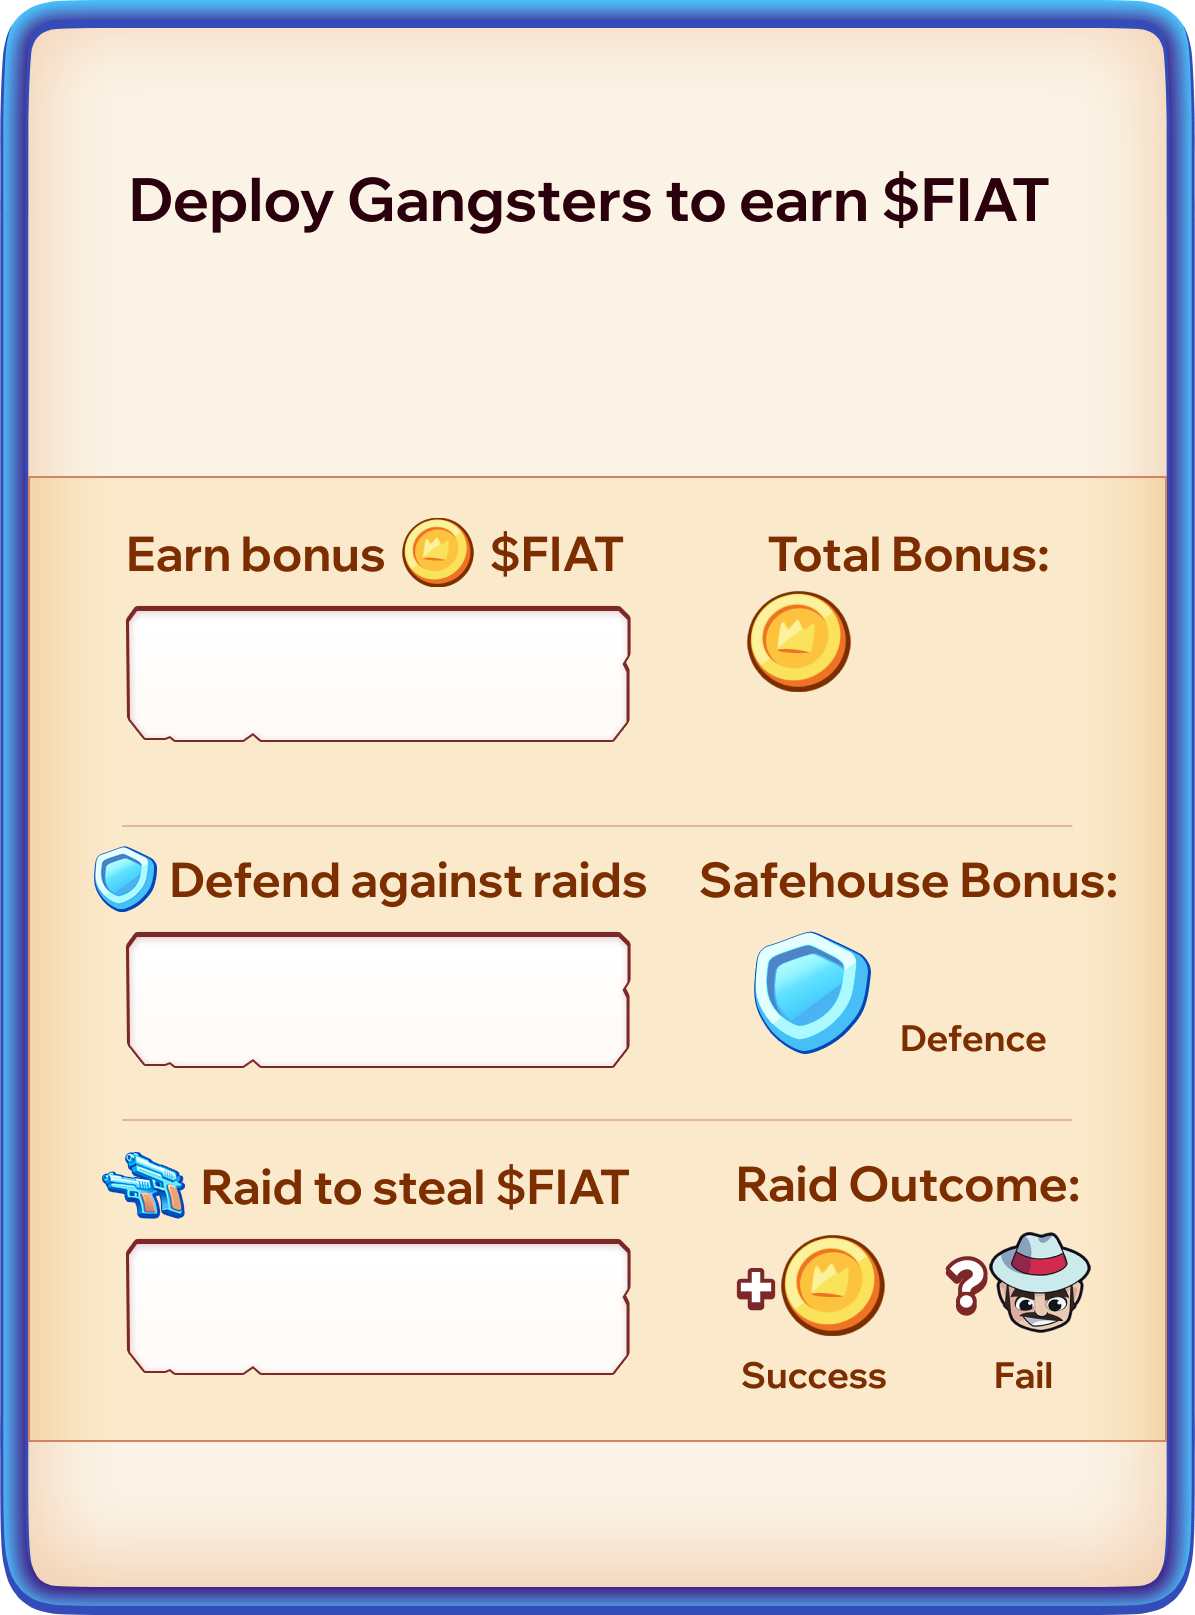
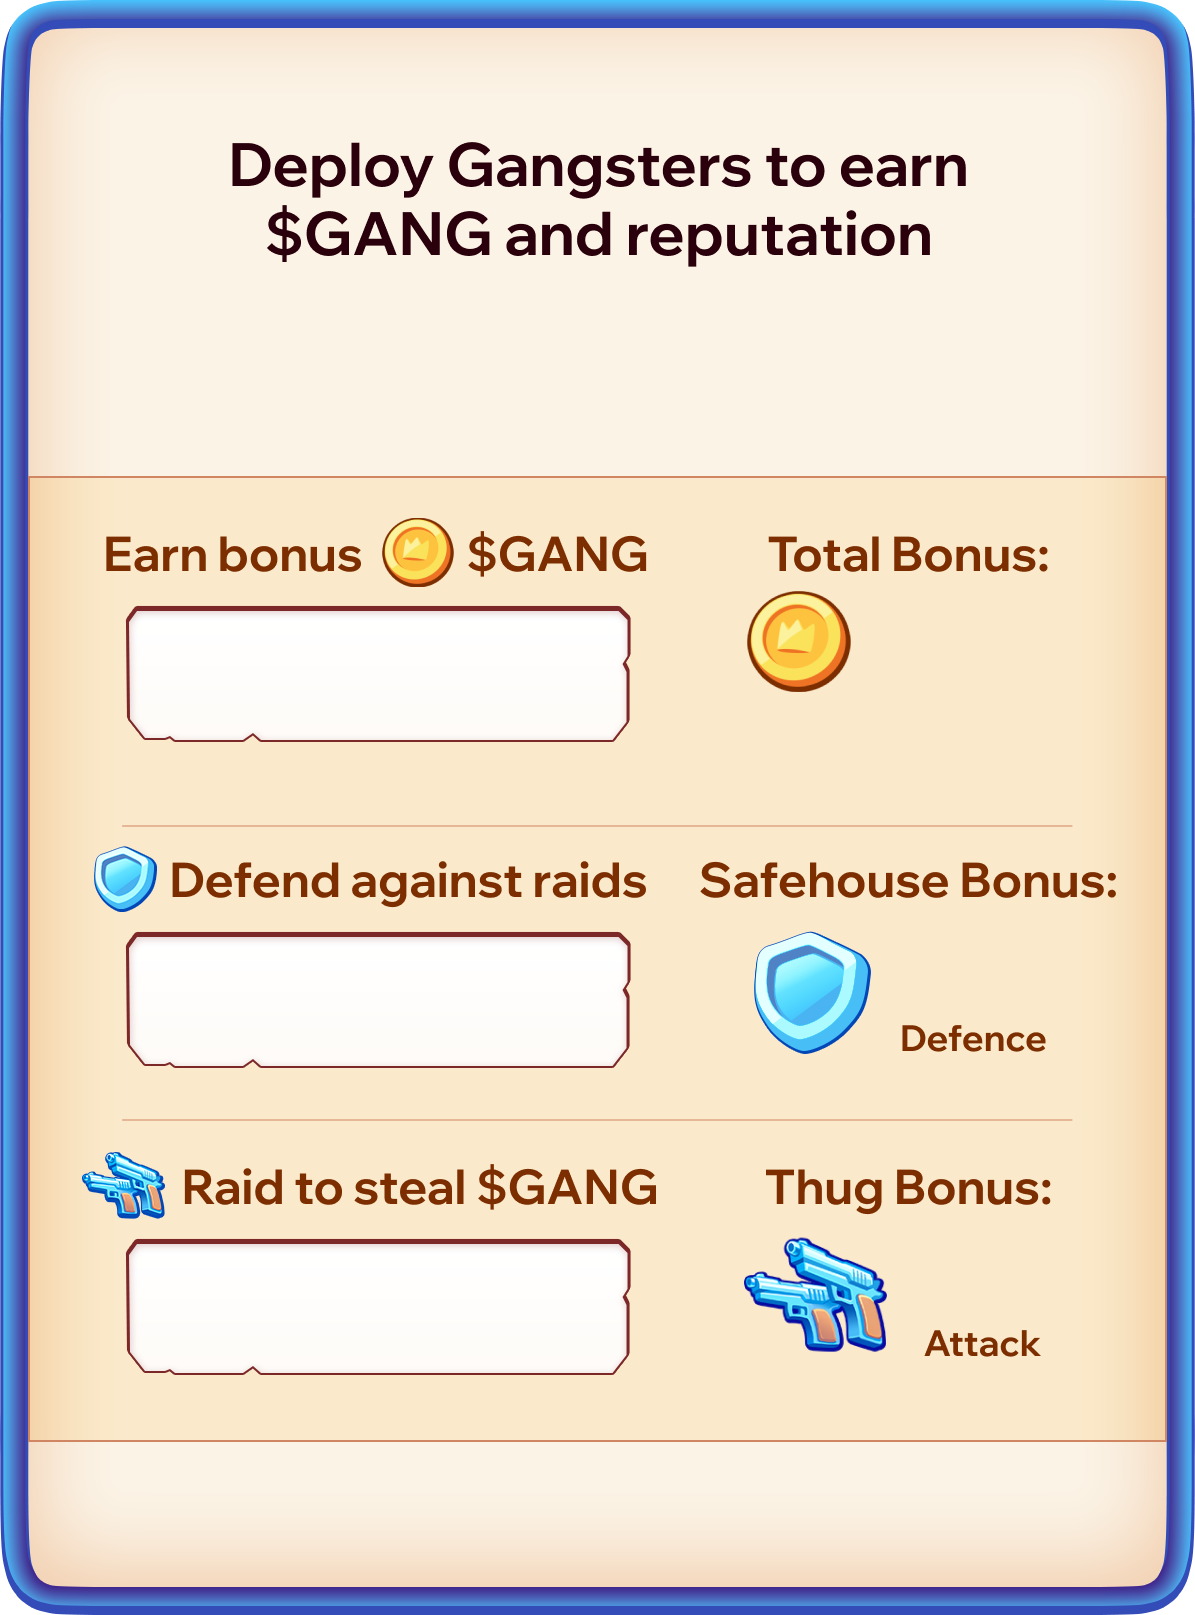
feat: reputation ui for war popup

diff --git a/app/src/pages/Game/components/popup/PopupWarMachines.js b/app/src/pages/Game/components/popup/PopupWarMachines.js
@@ -29,6 +29,7 @@ class PopupWarMachines extends Popup {
   attackUser = null;
   workerBonusToken = 0;
   buildingBonus = 0;
+  thugBonus = 0;
   totalEarn = 0;
   loading = false;
 
@@ -92,7 +93,7 @@ class PopupWarMachines extends Popup {
 
     const infoButton = new Button(
       scene,
-      width / 2 + this.popup.width / 2 - 100,
+      width / 2 + this.popup.width / 2 - 220,
       height / 2 - this.popup.height / 2 + 220,
       'button-info',
       'button-info-pressed',
@@ -336,7 +337,7 @@ class PopupWarMachines extends Popup {
     this.numberOfMachinesText = scene.add
       .text(
         width / 2,
-        height / 2 - this.popup.height / 2 + 300,
+        height / 2 - this.popup.height / 2 + 320,
         `Available Gangsters: ${this.numberOfMachines - this.earnUnits - this.attackUnits - this.defendUnits}`,
         {
           fontSize: '48px',
@@ -405,7 +406,7 @@ class PopupWarMachines extends Popup {
     this.add(this.workerBonusText2);
 
     this.defendBonusText = scene.add
-      .text(this.popup.x + 290, input2Y - 10, ``, {
+      .text(this.popup.x + 290, input2Y - 15, ``, {
         fontSize: '64px',
         color: '#fff',
         fontFamily: fontFamilies.extraBold,
@@ -413,6 +414,16 @@ class PopupWarMachines extends Popup {
       .setOrigin(0, 0.5);
     this.defendBonusText.setStroke(colors.brown, 12);
     this.add(this.defendBonusText);
+
+    this.attackBonusText = scene.add
+      .text(this.popup.x + 320, input3Y - 15, ``, {
+        fontSize: '64px',
+        color: '#fff',
+        fontFamily: fontFamilies.extraBold,
+      })
+      .setOrigin(0, 0.5);
+    this.attackBonusText.setStroke(colors.brown, 12);
+    this.add(this.attackBonusText);
 
     scene.game.events.on(
       events.updateGamePlay,
@@ -437,6 +448,7 @@ class PopupWarMachines extends Popup {
         this.workerBonusToken = numberOfWorkers * (tokenRewardPerEarner || 0) * (workerBonusMultiple || 0);
         this.totalEarn = numberOfMachinesToEarn * tokenRewardPerEarner + this.workerBonusToken;
         this.buildingBonus = numberOfBuildings * (buildingBonusMultiple || 0);
+        this.thugBonus = 0 // TODO: update when add thug logic
         this.earnUnits = numberOfMachinesToEarn;
         this.attackUnits = numberOfMachinesToAttack;
         this.defendUnits = numberOfMachinesToDefend;
@@ -486,6 +498,7 @@ class PopupWarMachines extends Popup {
     )}`;
     this.workerBonusText1.text = `Including +${formatter.format(this.workerBonusToken)} as`;
     this.defendBonusText.text = `+${formatter.format(this.buildingBonus)}`;
+    this.attackBonusText.text = `+${formatter.format(this.thugBonus)}`;
 
     this.raidBtn.setDisabledState(!this.scene?.isUserActive);
     const isRaid = Boolean(this.attackUnits);
